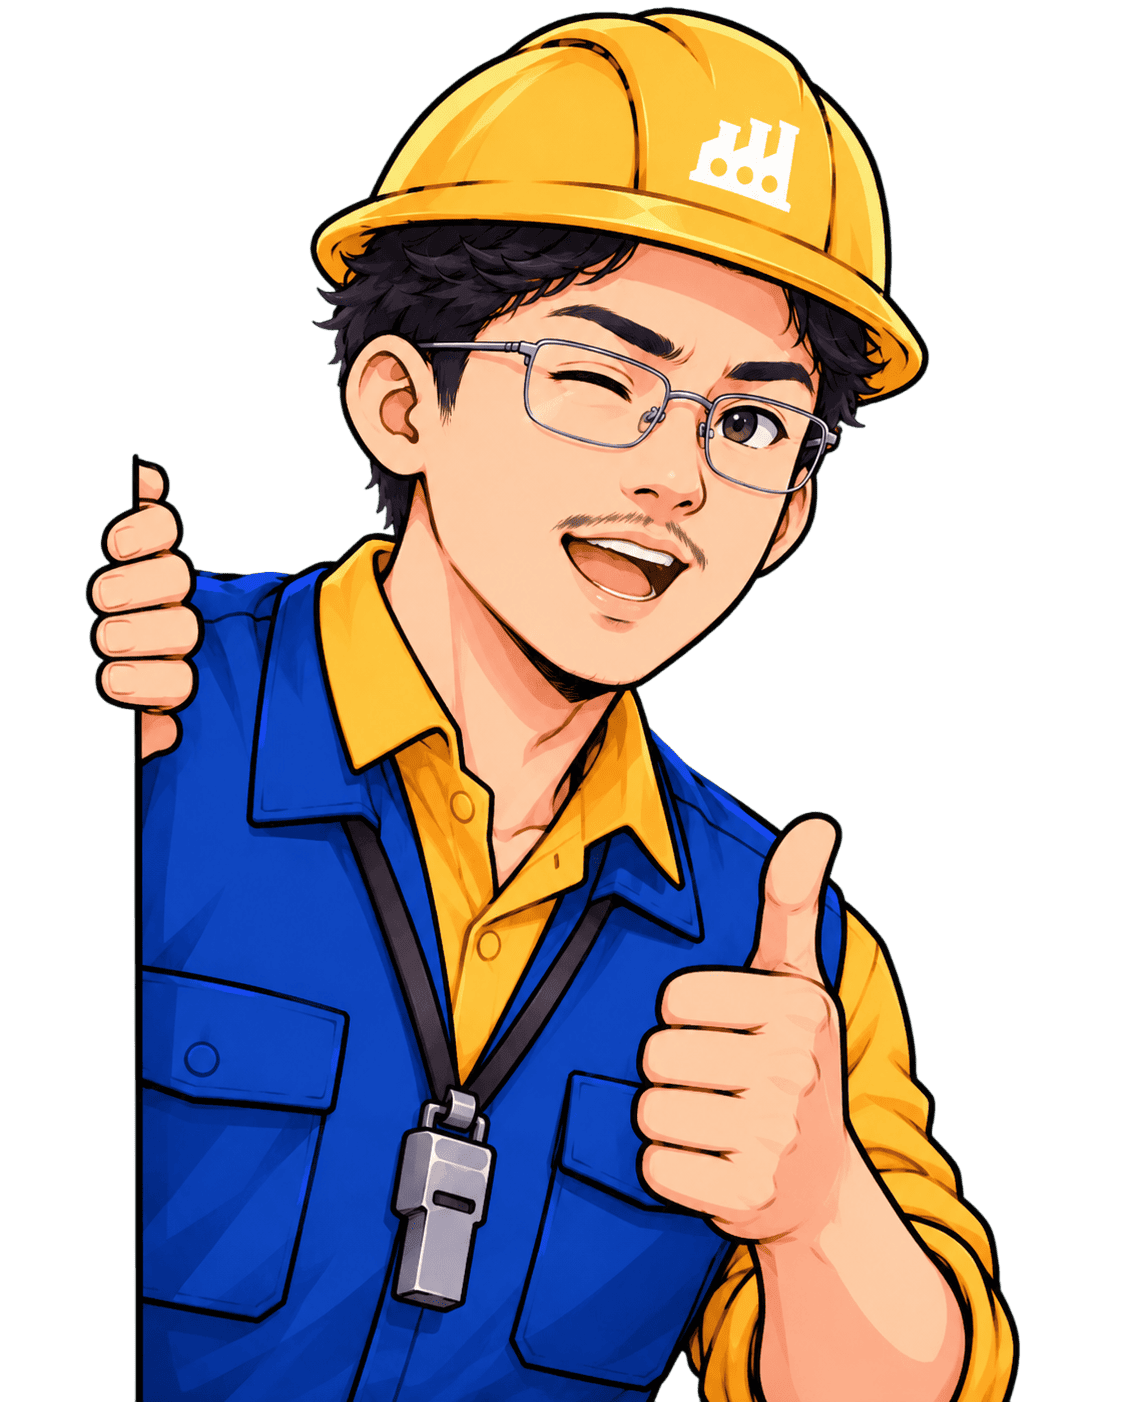
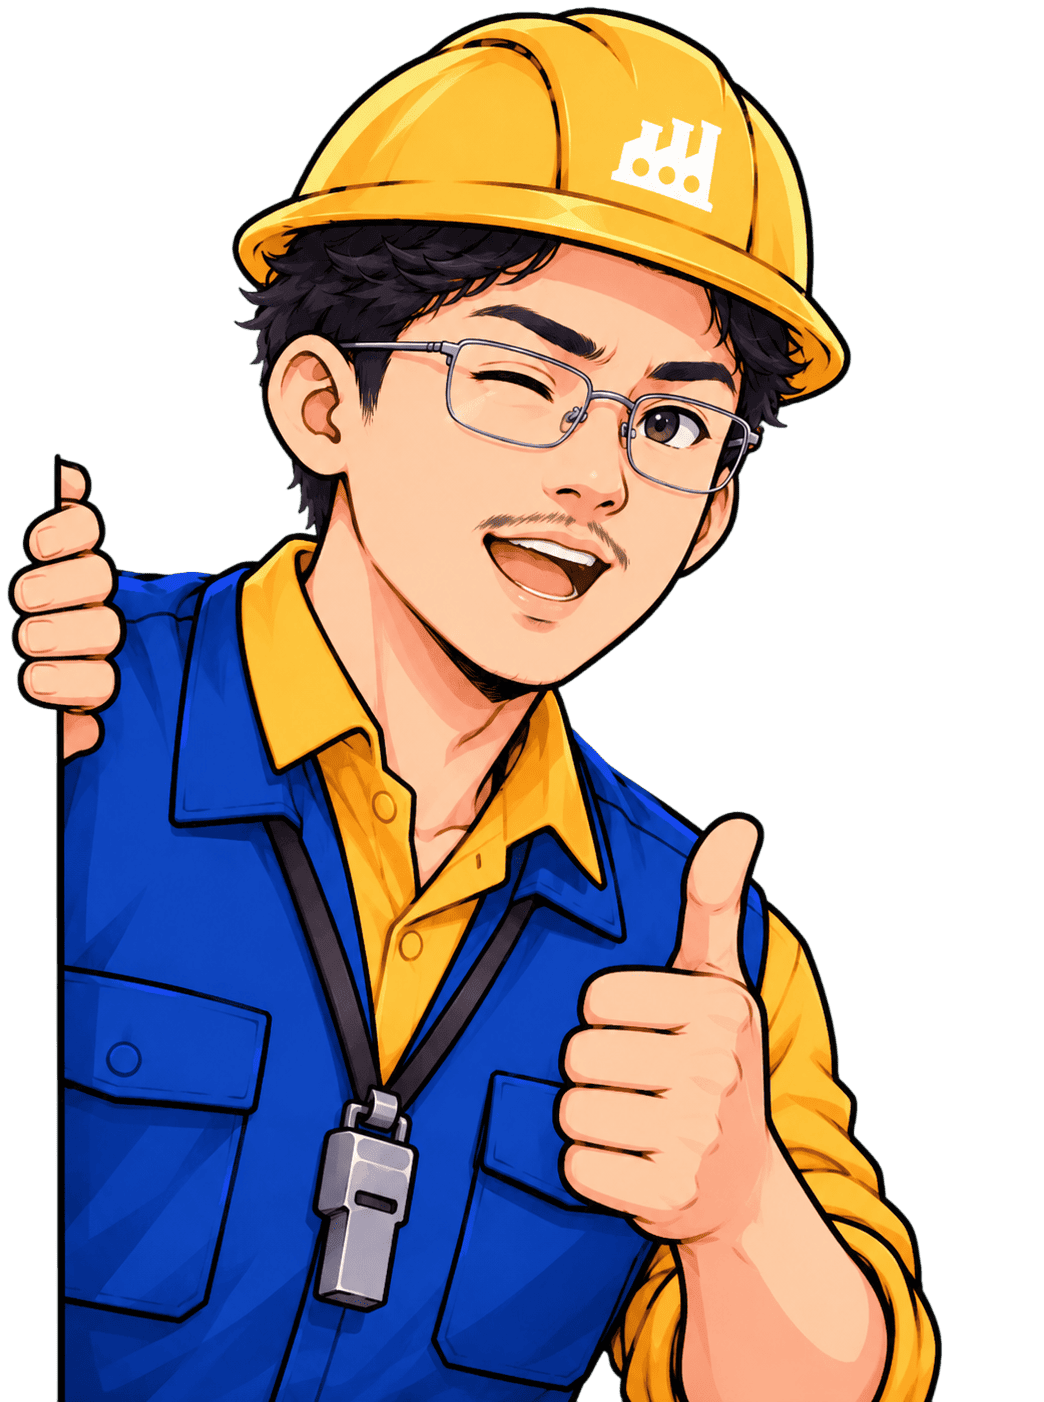
final ui settings

diff --git a/src/ui/components/ScoreboardPanel.tsx b/src/ui/components/ScoreboardPanel.tsx
@@ -6,68 +6,89 @@ interface ScoreboardPanelProps {
   levels: readonly { id: string; title: string }[];
 }
 
+const TH = 'px-3 py-2 text-xs font-black uppercase tracking-wide';
+
 /** Papan skor lokal: rekor terbaik per level dan seed (hanya hasil yang benar). */
 export function ScoreboardPanel({ data, levels }: ScoreboardPanelProps) {
   const boards = buildScoreboard(data, levels);
 
   return (
-    <section
-      className="flex flex-col gap-3 rounded-xl border border-navy-500 bg-navy-800 px-4 py-3"
-      aria-label="Papan skor"
-    >
-      <h2 className="font-bold">Papan Skor</h2>
-      <p className="text-sm text-ink-300">
-        Rekor di perangkat ini, dikelompokkan per seed supaya adil dibandingkan.
-        Hanya hasil yang benar yang dicatat. Ikut terhapus saat progres direset.
-      </p>
+    <section className="flex flex-col gap-4 pt-1" aria-label="Papan skor">
+      <div>
+        <h2 className="text-2xl font-black">Papan Skor</h2>
+        <p className="text-sm text-navy-700">
+          Rekor di perangkat ini, dikelompokkan per seed supaya adil
+          dibandingkan. Hanya hasil yang benar yang dicatat. Ikut terhapus saat
+          progres direset.
+        </p>
+      </div>
       {boards.length === 0 ? (
-        <p className="text-sm">
+        <p className="-rotate-1 self-start rounded-md border-[3px] border-navy-900 bg-sun-400 px-4 py-3 text-sm font-black shadow-[4px_4px_0_#0b1f3a]">
           Belum ada rekor. Selesaikan sebuah level dengan benar untuk
           mencatatnya.
         </p>
       ) : (
         boards.map((board) => (
-          <div key={board.levelId} className="flex flex-col gap-2">
-            <h3 className="font-bold text-sun-400">
+          <div key={board.levelId} className="flex flex-col gap-3">
+            <h3 className="-rotate-1 self-start border-[3px] border-navy-900 bg-[#b79ee0] px-3 py-0.5 text-lg font-black shadow-[3px_3px_0_#0b1f3a]">
               Level {board.levelId}: {board.title}
             </h3>
             {board.seeds.map((seedBoard) => (
-              <div key={seedBoard.seed} className="overflow-x-auto">
-                <p className="text-sm font-semibold">Seed {seedBoard.seed}</p>
-                <table className="w-full text-left text-sm">
-                  <thead>
-                    <tr className="border-b border-navy-500 text-ink-300">
-                      <th scope="col" className="py-1 pr-2">
-                        Peringkat
-                      </th>
-                      <th scope="col" className="py-1 pr-2">
-                        Bintang
-                      </th>
-                      <th scope="col" className="py-1 pr-2">
-                        Tick
-                      </th>
-                      <th scope="col" className="py-1 pr-2">
-                        Tunggu
-                      </th>
-                      <th scope="col" className="py-1">
-                        Tanggal
-                      </th>
-                    </tr>
-                  </thead>
-                  <tbody>
-                    {seedBoard.rows.map((row) => (
-                      <tr key={row.rank} className="border-b border-navy-700">
-                        <th scope="row" className="py-1 pr-2 font-normal">
-                          #{row.rank}
+              <div key={seedBoard.seed} className="flex flex-col gap-1">
+                <p className="self-start rounded-full border-2 border-navy-900 bg-white px-3 text-sm font-black">
+                  Seed {seedBoard.seed}
+                </p>
+                <div className="overflow-x-auto rounded-lg border-[3px] border-navy-900 bg-white/70 shadow-[3px_3px_0_#0b1f3a]">
+                  <table className="w-full text-left text-sm">
+                    <thead className="bg-sun-400">
+                      <tr>
+                        <th scope="col" className={TH}>
+                          Peringkat
                         </th>
-                        <td className="py-1 pr-2">{row.stars}</td>
-                        <td className="py-1 pr-2">{row.ticks}</td>
-                        <td className="py-1 pr-2">{row.waitTicks}</td>
-                        <td className="py-1">{row.date}</td>
+                        <th scope="col" className={TH}>
+                          Bintang
+                        </th>
+                        <th scope="col" className={TH}>
+                          Tick
+                        </th>
+                        <th scope="col" className={TH}>
+                          Tunggu
+                        </th>
+                        <th scope="col" className={TH}>
+                          Tanggal
+                        </th>
                       </tr>
-                    ))}
-                  </tbody>
-                </table>
+                    </thead>
+                    <tbody>
+                      {seedBoard.rows.map((row) => (
+                        <tr
+                          key={row.rank}
+                          className="border-t-2 border-navy-900/20 even:bg-sun-400/10"
+                        >
+                          <th scope="row" className="px-3 py-1.5 font-normal">
+                            <span
+                              className={`inline-flex h-7 min-w-7 items-center justify-center rounded-full border-2 border-navy-900 px-1 font-black ${
+                                row.rank === 1 ? 'bg-sun-400' : 'bg-white'
+                              }`}
+                            >
+                              #{row.rank}
+                            </span>
+                          </th>
+                          <td className="px-3 py-1.5 font-bold">{row.stars}</td>
+                          <td className="px-3 py-1.5 tabular-nums">
+                            {row.ticks}
+                          </td>
+                          <td className="px-3 py-1.5 tabular-nums">
+                            {row.waitTicks}
+                          </td>
+                          <td className="px-3 py-1.5 tabular-nums">
+                            {row.date}
+                          </td>
+                        </tr>
+                      ))}
+                    </tbody>
+                  </table>
+                </div>
               </div>
             ))}
           </div>

diff --git a/src/ui/screens/SettingsScreen.tsx b/src/ui/screens/SettingsScreen.tsx
@@ -2,17 +2,11 @@ import { useState } from 'react';
 import type { CSSProperties } from 'react';
 import type { ScoreboardData } from '../../progress/scoreboardStore';
 import type { SettingsData, SettingsPatch } from '../../progress/settingsStore';
-import { APP_VERSION } from '../../version';
 import { CatatanBoard, CatatanPanel } from '../components/catatan/CatatanBoard';
 import { ComicRow, ComicToggle } from '../components/catatan/ComicToggle';
+import { CreditsPanel } from '../components/catatan/CreditsPanel';
 import { StickyNote } from '../components/catatan/StickyNote';
 import { ScoreboardPanel } from '../components/ScoreboardPanel';
-import {
-  ASSET_CREDITS,
-  GENERATOR_NOTE,
-  ICON_NOTE,
-  TEAM_MEMBERS,
-} from '../credits';
 import type { Navigation } from '../navigation';
 import {
   DEFAULT_SETTINGS_TAB,
@@ -198,45 +192,14 @@ export function SettingsScreen({
 
         <CatatanPanel idPrefix={ID} tabId="skor" active={tab === 'skor'}>
           {scoreboard !== undefined ? (
-            <div className="mt-2 rounded-xl border-[3px] border-navy-900 bg-navy-900 p-3 text-ink-100">
-              <ScoreboardPanel data={scoreboard} levels={scoreboardLevels} />
-            </div>
+            <ScoreboardPanel data={scoreboard} levels={scoreboardLevels} />
           ) : (
             <p className="pt-2 font-semibold">Papan skor belum tersedia.</p>
           )}
         </CatatanPanel>
 
         <CatatanPanel idPrefix={ID} tabId="kredit" active={tab === 'kredit'}>
-          <section className="flex flex-col gap-3 pt-2" aria-label="Kredit">
-            <h2 className="text-2xl font-black">Kredit</h2>
-            <ul className="flex flex-col gap-2">
-              {ASSET_CREDITS.map((credit) => (
-                <li
-                  key={credit.name}
-                  className="rounded-lg border-2 border-navy-900/40 bg-white/60 px-3 py-1.5 text-sm"
-                >
-                  <span className="font-bold">{credit.name}</span>
-                  <span className="text-navy-700">
-                    {' '}
-                    · {credit.source} · {credit.license}
-                  </span>
-                </li>
-              ))}
-            </ul>
-            <p className="text-sm">{ICON_NOTE}</p>
-            <p className="text-sm">{GENERATOR_NOTE}</p>
-            <div>
-              <h3 className="font-bold">Tim</h3>
-              <ul className="mt-1 list-disc pl-6 text-sm">
-                {TEAM_MEMBERS.map((member) => (
-                  <li key={member}>{member}</li>
-                ))}
-              </ul>
-            </div>
-            <p className="text-sm text-navy-700">
-              Thread Factory: Pabrik Rebutan v{APP_VERSION}
-            </p>
-          </section>
+          <CreditsPanel />
         </CatatanPanel>
       </CatatanBoard>
     </main>

diff --git a/src/ui/components/catatan/CreditsPanel.tsx b/src/ui/components/catatan/CreditsPanel.tsx
@@ -1,0 +1,63 @@
+import { APP_VERSION } from '../../../version';
+import {
+  ASSET_CREDITS,
+  GENERATOR_NOTE,
+  ICON_NOTE,
+  TEAM_MEMBERS,
+} from '../../credits';
+
+/** Warna pastel kartu kredit; dipakai bergilir menurut urutan. */
+const CARD_TINTS = ['bg-[#fff1b8]', 'bg-[#e3d6f5]', 'bg-[#d3e6b0]'] as const;
+
+/** Isi tab Kredit: kartu aset, catatan, dan label nama tim. */
+export function CreditsPanel() {
+  return (
+    <section className="flex flex-col gap-4 pt-1" aria-label="Kredit">
+      <h2 className="text-2xl font-black">Kredit</h2>
+
+      <ul className="grid grid-cols-2 gap-3">
+        {ASSET_CREDITS.map((credit, index) => (
+          <li
+            key={credit.name}
+            className={`flex flex-col gap-1 rounded-lg border-[3px] border-navy-900 px-3 py-2 shadow-[3px_3px_0_#0b1f3a] ${
+              CARD_TINTS[index % CARD_TINTS.length]
+            }`}
+          >
+            <span className="text-sm font-black leading-tight">
+              {credit.name}
+            </span>
+            <span className="text-xs leading-tight text-navy-700">
+              {credit.source}
+            </span>
+            <span className="mt-auto self-start rounded-full border-2 border-navy-900 bg-sun-400 px-2 text-xs font-black">
+              {credit.license}
+            </span>
+          </li>
+        ))}
+      </ul>
+
+      <div className="flex flex-col gap-1 rounded-lg border-[3px] border-dashed border-navy-900/60 bg-[#fff6d6] px-3 py-2 text-sm">
+        <p>{ICON_NOTE}</p>
+        <p>{GENERATOR_NOTE}</p>
+      </div>
+
+      <div>
+        <h3 className="text-lg font-black">Tim</h3>
+        <ul className="mt-1 flex flex-wrap gap-2">
+          {TEAM_MEMBERS.map((member) => (
+            <li
+              key={member}
+              className="rounded-md border-[3px] border-navy-900 bg-[#d3e6b0] px-3 py-0.5 text-sm font-black shadow-[2px_2px_0_#0b1f3a]"
+            >
+              {member}
+            </li>
+          ))}
+        </ul>
+      </div>
+
+      <p className="text-sm text-navy-700">
+        Thread Factory: Pabrik Rebutan v{APP_VERSION}
+      </p>
+    </section>
+  );
+}

diff --git a/src/ui/catatan.ts b/src/ui/catatan.ts
@@ -16,7 +16,7 @@ export const MANDOR_WIDTH_RATIO = 0.34;
 export const MANDOR_OVERLAP_RATIO = 0.06;
 
 /** Area kertas di dalam papan, dalam persen dari ukuran papan. */
-export const PAPER_INSET = { top: 13, right: 8, bottom: 8, left: 8 } as const;
+export const PAPER_INSET = { top: 13, right: 8, bottom: 14, left: 8 } as const;
 
 /**
  * Lebar papan (CSS): papan beserta Pak Mandor harus muat di lebar layar,
